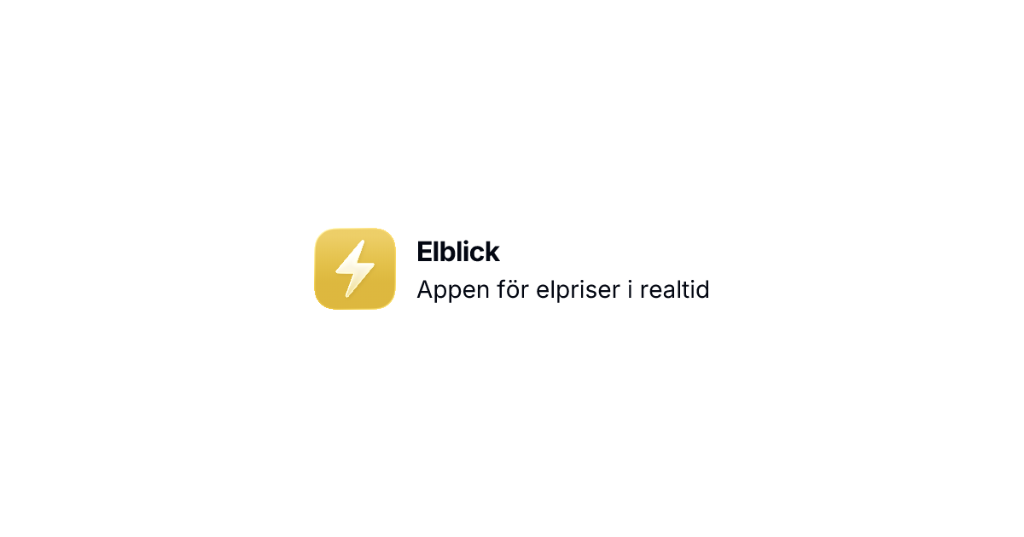
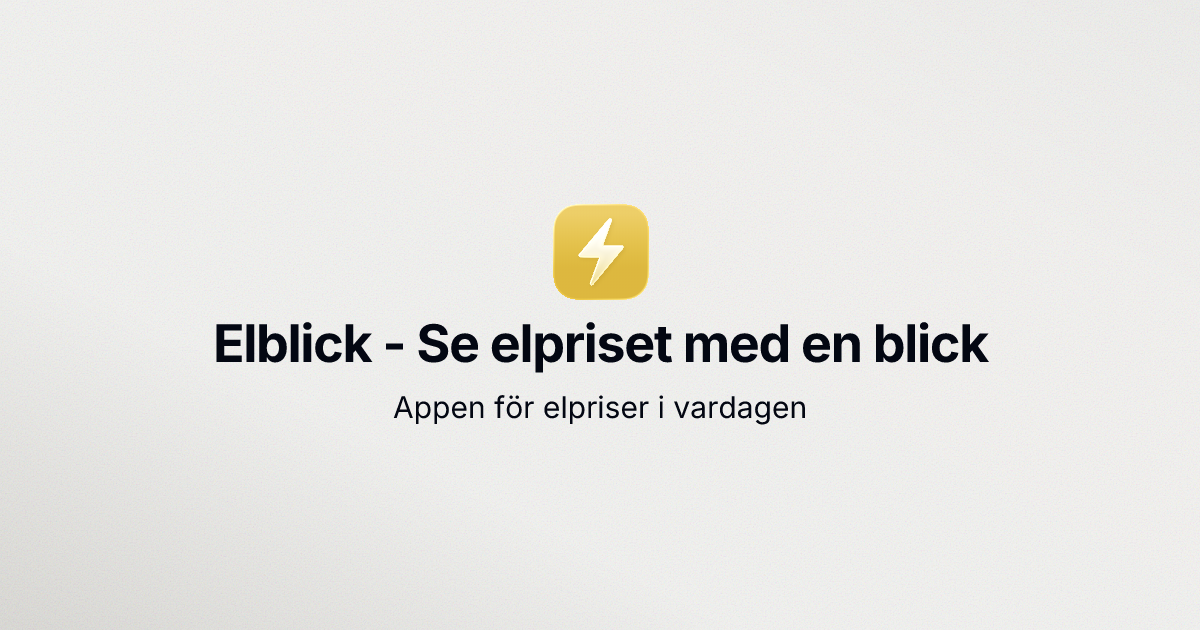
Updated some texts

diff --git a/index.html b/index.html
@@ -4,27 +4,27 @@
 <head>
     <meta charset="UTF-8">
     <meta name="viewport" content="width=device-width, initial-scale=1.0">
-    <title>Elblick - Sveriges Elpriser i Realtid</title>
+    <title>Elblick - Se elpriset med en blick | Appen för elpriser i vardagen</title>
     <meta name="description"
-        content="Kolla elpriset i realtid för SE1, SE2, SE3 & SE4. Smarta notiser, widgets till hemskärmen och Apple Watch-stöd. Ladda ner Elblick gratis idag!">
+        content="Appen för elpriser i vardagen. Kolla elpriset för SE1, SE2, SE3 & SE4. Smarta notiser, widgets till hemskärmen och Apple Watch-stöd. Ladda ner Elblick gratis idag!">
     <link rel="canonical" href="https://davnag.github.io/elblick-web/">
     <link rel="icon" type="image/png" href="assets/images/icon.png">
 
     <!-- Open Graph / Facebook -->
     <meta property="og:type" content="website">
     <meta property="og:url" content="https://davnag.github.io/elblick-web/">
-    <meta property="og:title" content="Elblick - Sveriges Elpriser i Realtid">
+    <meta property="og:title" content="Elblick - Se elpriset med en blick">
     <meta property="og:description"
-        content="Kolla elpriset i realtid för SE1, SE2, SE3 & SE4. Smarta notiser, widgets till hemskärmen och Apple Watch-stöd.">
+        content="Appen för elpriser i vardagen. Kolla elpriset för SE1, SE2, SE3 & SE4. Smarta notiser, widgets till hemskärmen och Apple Watch-stöd.">
     <meta property="og:image" content="https://davnag.github.io/elblick-web/assets/images/og-image.png">
 
     <!-- Twitter -->
     <meta property="twitter:card" content="summary_large_image">
     <!-- Använd 'summary_large_image' om du har en bredare bild -->
     <meta property="twitter:url" content="https://davnag.github.io/elblick-web/">
-    <meta property="twitter:title" content="Elblick - Sveriges Elpriser i Realtid">
+    <meta property="twitter:title" content="Elblick - Se elpriset med en blick">
     <meta property="twitter:description"
-        content="Kolla elpriset i realtid för SE1, SE2, SE3 & SE4. Smarta notiser, widgets till hemskärmen och Apple Watch-stöd.">
+        content="Appen för elpriser i vardagen. Kolla elpriset för SE1, SE2, SE3 & SE4. Smarta notiser, widgets till hemskärmen och Apple Watch-stöd.">
     <meta property="twitter:image" content="https://davnag.github.io/elblick-web/assets/images/og-image.png">
 
     <!-- Apple Smart App Banner -->
@@ -49,7 +49,7 @@
         "priceCurrency": "SEK"
       },
       "downloadUrl": "https://apps.apple.com/app/id6741142614",
-      "featureList": "Realtidspriser, Widgets, Apple Watch app, Notiser"
+      "featureList": "Aktuella elpriser, Widgets, Apple Watch app, Notiser"
     }
     </script>
 
@@ -90,7 +90,7 @@
             <img src="assets/images/icon.png" alt="Elblick" class="hero-icon">
 
 
-            <h1>Elblick – Elpriser i realtid</h1>
+            <h1>Elblick<br><span class="hero-tagline">Se elpriset med en blick</span></h1>
             <p>Håll koll på elpriserna i ditt område. Få notiser när det är billigast att använda el och spara pengar
                 varje månad.</p>
 
@@ -153,7 +153,7 @@
                                 d="M13 10V3L4 14h7v7l9-11h-7z" />
                         </svg>
                     </div>
-                    <h3>Realtidspriser</h3>
+                    <h3>Aktuella elpriser</h3>
                     <p>Se aktuella elpriser för ditt prisområde.</p>
                 </div>
 

diff --git a/assets/css/styles.css b/assets/css/styles.css
@@ -502,6 +502,15 @@ img {
   letter-spacing: -0.02em;
 }
 
+.hero-tagline {
+  display: block;
+  font-size: 0.7em;
+  font-weight: 600;
+  margin-top: 16px;
+  color: var(--text-primary);
+  opacity: 0.9;
+}
+
 .hero p {
   font-size: clamp(18px, 2.5vw, 22px);
   color: var(--text-secondary);
